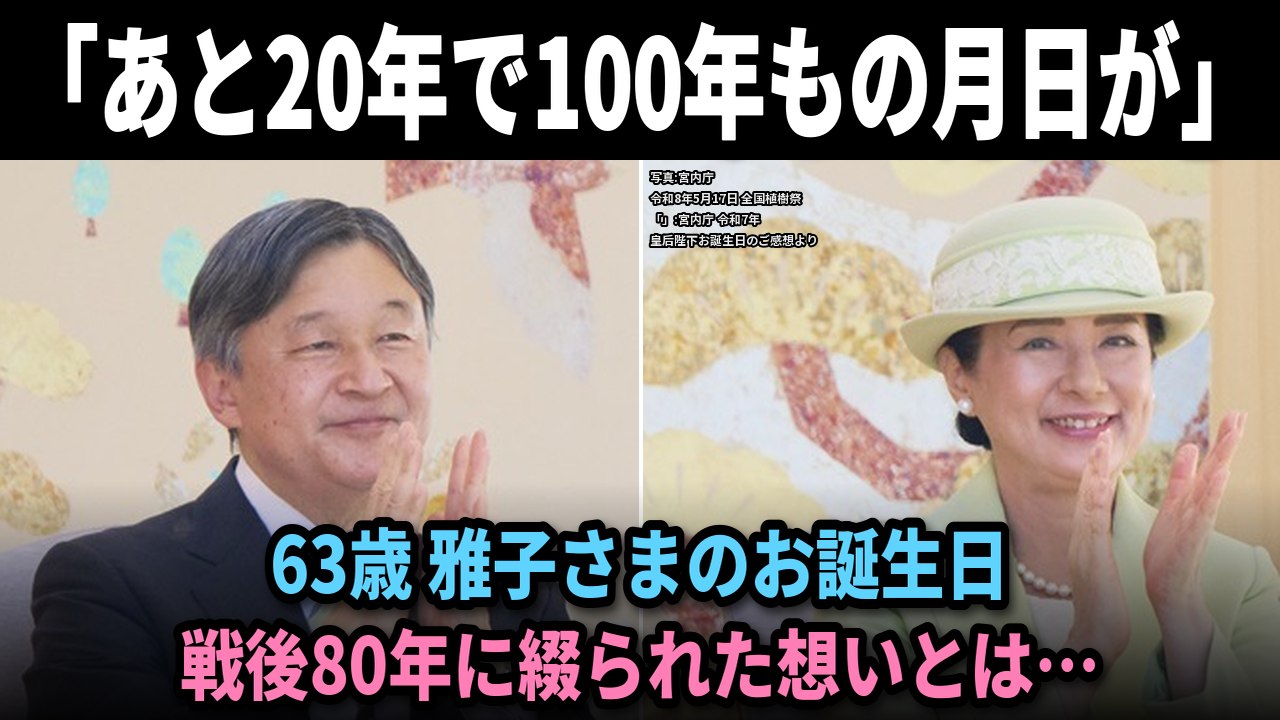
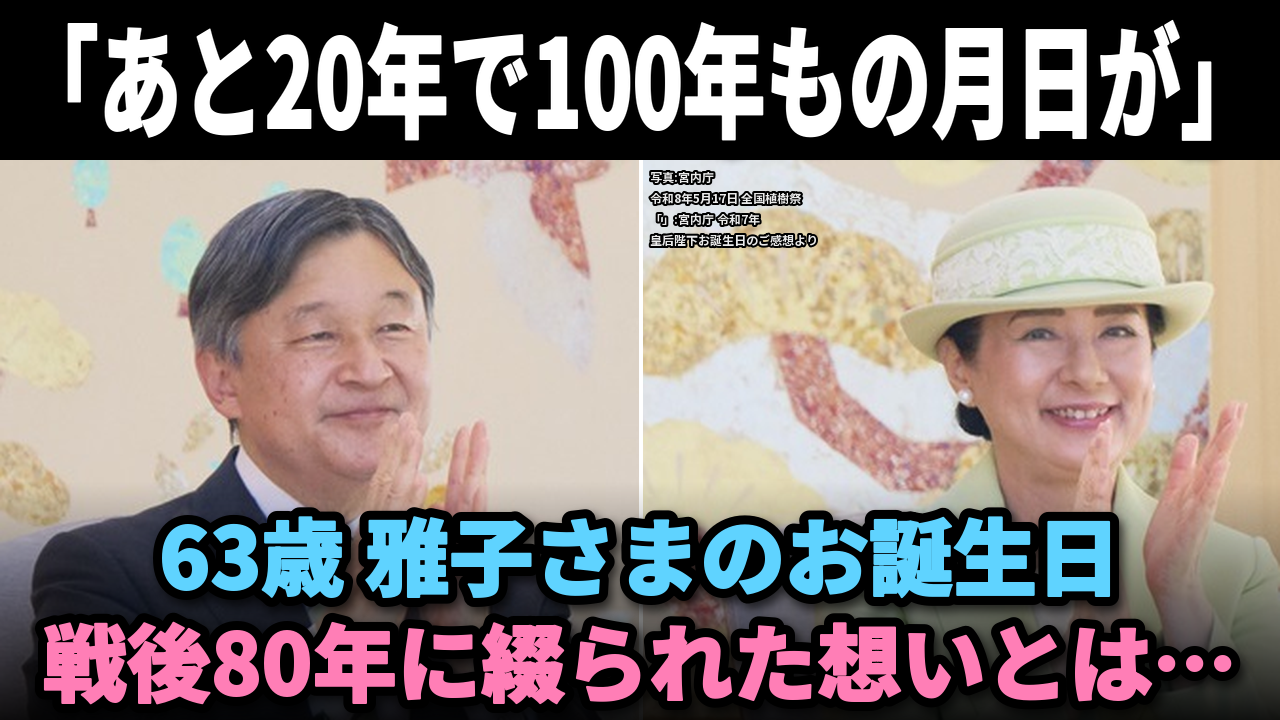
表紙 長尺②③: 文字をお顔に掛からない範囲で最大に(見本の型。自動で最大の大きさを計算)
Claude-Session: https://claude.ai/code/session_01BJaPidxzmnRS1K4CmysiYX

diff --git a/projects/PLAN-20261127-DRAMA/thumb_v3/make_v3.py b/projects/PLAN-20261127-DRAMA/thumb_v3/make_v3.py
@@ -19,8 +19,8 @@ BLUE = (95, 211, 255); PINK = (255, 126, 182)   # 3段の時は3色(荒木指示
 # お顔・頭の範囲(書き出し後の座標。目視で登録し、余白30pxを足して検査する)
 HEADS = {
  "L1": [(265, 60, 450, 305), (715, 90, 885, 285), (1120, 20, 1280, 245)],
- "L2": [(177, 190, 464, 483), (921, 190, 1208, 457)],
- "L3": [(235, 79, 435, 309), (735, 109, 955, 359)],
+ "L2": [(177, 181, 464, 474), (921, 181, 1208, 448)],
+ "L3": [(235, 23, 435, 253), (735, 53, 955, 303)],
  "S":  [],  # ショートは写真の上に文字を置かない(帯の中だけ)
 }
 MARGIN = 30
@@ -90,18 +90,38 @@ def ctext(im, center, s, path, fill, glyph_h, maxw, condense=0.76, stroke=10, bo
     BOXES.append((s, (x + bb[0], y + bb[1], x + bb[2], y + bb[3])))
     return (x + bb[0], y + bb[1], x + bb[2], y + bb[3])
 
+
+def stack(im, items, top, bottom=714, maxw=1256, gap=4, stroke=10, cmin=0.72, path=None, bold=1):
+    """荒木指示 2026-11-28「出来る限り大きく」: 決められた範囲(top〜bottom)に、各段を重ねずに入る最大の大きさで置く。
+    各段は横幅いっぱい(maxw)まで使い、足りなければ横を詰める(長体、最小 cmin)。見本(JAPANマインドの表紙)の型。"""
+    from PIL import ImageFont
+    path = path or SANS
+    for size in range(200, 20, -2):
+        f = ImageFont.truetype(path, size); hs = []; cs = []; ok = True
+        for t, _ in items:
+            l, tp, r, bt = f.getbbox(t, stroke_width=stroke)
+            c = min(1.0, maxw / (r - l + 20))
+            if c < cmin: ok = False; break
+            hs.append(bt - tp); cs.append(c)
+        if ok and sum(hs) + gap * (len(items) - 1) <= bottom - top: break
+    y = bottom; boxes = []
+    for (t, col), c in reversed(list(zip(items, cs))):
+        b = ctext(im, (640, 0), t, path, col, size / 1.18, 99999, condense=c, stroke=stroke, bold=bold, bottom=y)
+        boxes.append(b); y = b[1] - gap
+    return size
+
 def L2():
     # 荒木指示 2026-11-28: 見本(JAPANマインドの表紙)の書体と文字の大きさに合わせる。上段は白。3段3色(白・水色・ピンク)
     im = Image.new("RGBA", (1280, 720), (0, 0, 0, 255))
     # 荒木指示 2026-11-28: お顔を見本(画面の高さの約4割)まで大きく → 陛下と雅子さまを左右2枚に分けて約2倍に
-    im.paste(photo("shokuju", (97, 112, 434, 407), (640, 560)), (0, 160))
-    im.paste(photo("shokuju", (560, 115, 897, 410), (640, 560)), (640, 160))
+    im.paste(photo("shokuju", (97, 117, 434, 412), (640, 560)), (0, 160))
+    im.paste(photo("shokuju", (560, 120, 897, 415), (640, 560)), (640, 160))
     ImageDraw.Draw(im).line((640, 160, 640, 720), fill=WHITE, width=4)
     vgrad(im, 480, 720, color=(0, 0, 0), a1=235)
     ctext(im, (640, 80), "「" + QUOTE + "」", SANS, WHITE, 112, 1265, condense=0.68, bold=1)
     # 中段と下段は重ねない: 下段の下端を712に置き、中段は下段の上端から16px空けて置く(荒木指示 2026-11-28)
-    b3 = ctext(im, (640, 0), "戦後80年に綴られた想いとは…", SANS, PINK, 66, 1250, condense=0.84, bold=0, bottom=712)
-    ctext(im, (640, 0), "63歳 雅子さまのお誕生日", SANS, BLUE, 66, 1250, condense=0.84, bold=0, bottom=b3[1] - 6)
+    # 中段と下段: お顔の下(お顔の枠+30px)から下端までに、重ねずに入る最大の大きさ
+    stack(im, [("63歳 雅子さまのお誕生日", BLUE), ("戦後80年に綴られた想いとは…", PINK)], top=max(b[3] for b in HEADS["L2"]) + MARGIN + 1)
     cr = ["写真:宮内庁", "令和8年5月17日 全国植樹祭", "「」:宮内庁 令和7年", "皇后陛下お誕生日のご感想より"]
     credit(im, (650, 168), cr, 12, anchor="la")
     BOXES.append(("出典", (650, 168, 650 + 12 * 15, 168 + 4 * 16)))
@@ -109,12 +129,14 @@ def L2():
 
 # ---- 長尺③ 一場面の大写し+短い一言: 両陛下を大きく、文字は右下に寄せて短く ----
 def L3():
-    im = photo("chakai", (90, 80, 1000, 600), (1280, 720))
-    vgrad(im, 400, 720, color=(0, 0, 0), a1=225)
-    T(im, (640, 462), "12月9日 63歳のお誕生日", F(SANS, 50), fill=BLUE, stroke=8, stroke_fill=BLK)
-    T(im, (640, 545), "「" + QUOTE + "」", fit("「" + QUOTE + "」", SERIF, 62, 1100), fill=WHITE, stroke=8, stroke_fill=BLK)
-    T(im, (640, 648), "雅子さまの願いとは…", F(SERIF, 104), fill=YEL, stroke=11, stroke_fill=BLK)
-    credit(im, (1272, 714), ["写真:宮内庁 " + P["chakai"][1], SRCQ], 13)
+    # 荒木指示 2026-11-28: 文字を出来る限り大きく(見本の極太ゴシック)。3段3色(水色・白・黄)
+    im = photo("chakai", (90, 120, 1000, 640), (1280, 720))
+    top = max(b[3] for b in HEADS["L3"]) + MARGIN + 1
+    vgrad(im, top - 60, 720, color=(0, 0, 0), a1=235)
+    stack(im, [("12月9日 63歳のお誕生日", BLUE), ("「" + QUOTE + "」", WHITE), ("雅子さまの願いとは…", YEL)], top=top)
+    cr = ["写真:宮内庁", "令和8年11月4日 茶会(宮殿)", "「」:宮内庁 令和7年", "皇后陛下お誕生日のご感想より"]
+    credit(im, (1272, 8), cr, 12, anchor="ra")
+    BOXES.append(("出典", (1272 - 12 * 15, 8, 1272, 8 + 4 * 16)))
     check("L3"); return im
 
 # ---- ショート: 黒の帯の型(上に白の3行、中央に一場面、下に黄色の極太2行) ----
